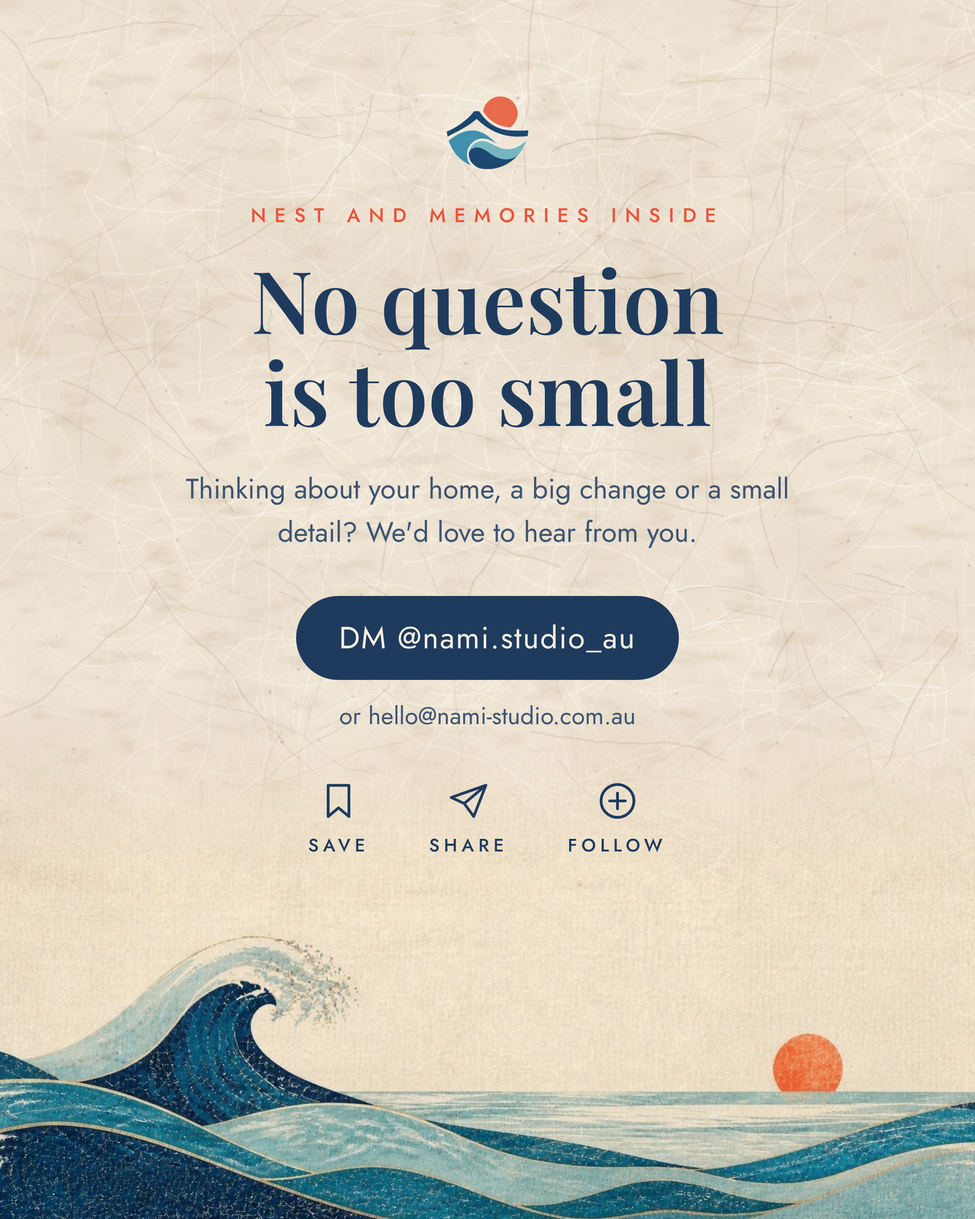
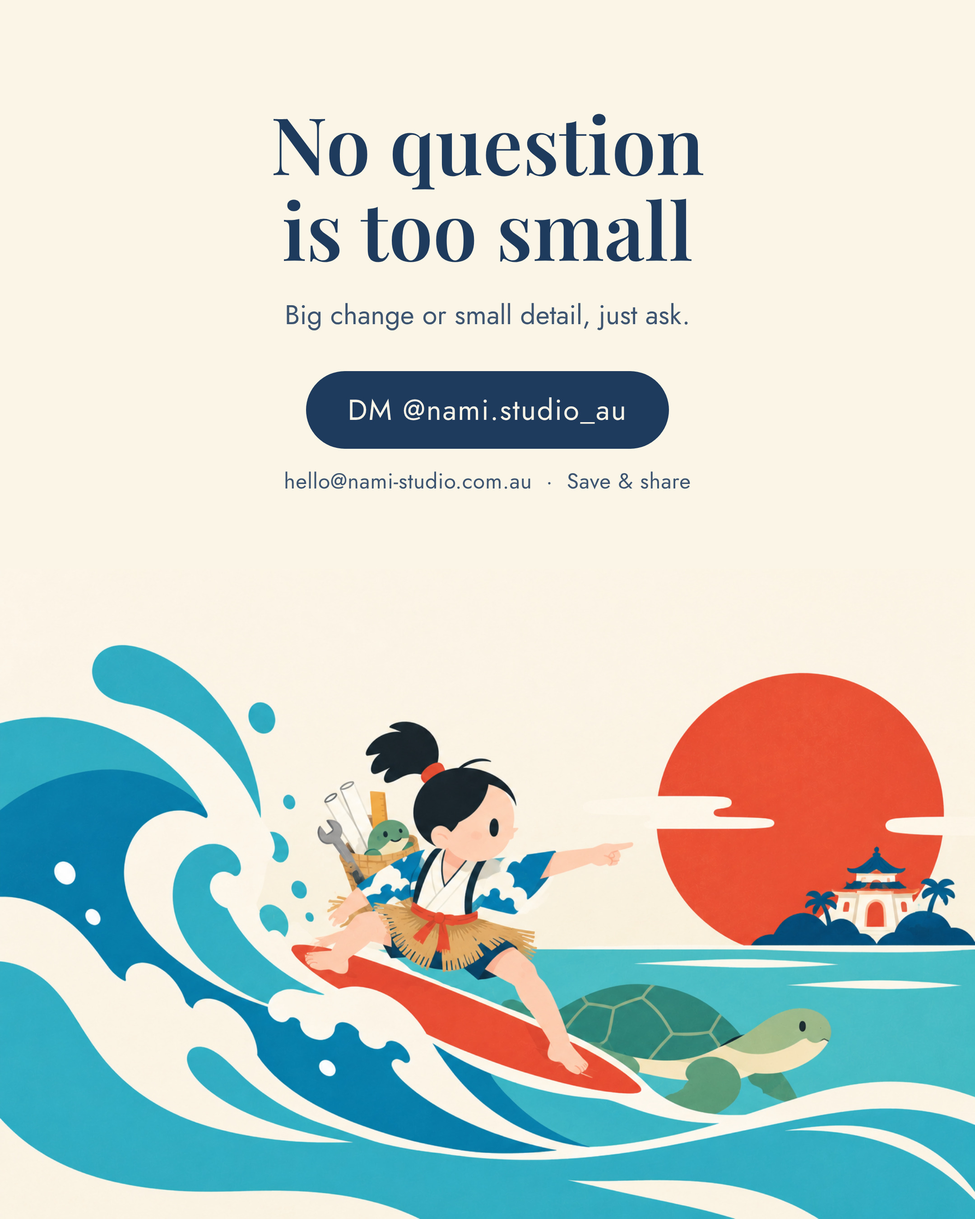
Instagram closing slide: simpler layout with the NAMI surfer illustration
Claude-Session: https://claude.ai/code/session_018kEBoUjPf4arsee4JEG76P

diff --git a/nami-website/design/instagram/last/make-last.py b/nami-website/design/instagram/last/make-last.py
@@ -1,33 +1,18 @@
 R="/home/user/-/nami-website"
-W=f"{R}/design/instagram/washi-paper.jpg"
-P=f"{R}/public/images/washi/wave-sun.jpg"
-E=f"{R}/public/images/logo/nami-emblem.png"
-# Instagram icons, drawn as simple outlines so they read as the real buttons
-BOOK='<svg viewBox="0 0 24 24"><path d="M6 3h12v18l-6-5-6 5z"/></svg>'
-SEND='<svg viewBox="0 0 24 24"><path d="M22 3 9.5 13.5M22 3l-7 18-5.5-7.5L2 10z"/></svg>'
-PLUS='<svg viewBox="0 0 24 24"><circle cx="12" cy="12" r="9.5"/><path d="M12 7.5v9M7.5 12h9"/></svg>'
+I=f"{R}/design/instagram/last/surfer.png"
 open("final_last.html","w").write(f'''<!doctype html><html><head><meta charset=utf-8>
 <link href="https://fonts.googleapis.com/css2?family=Playfair+Display:wght@600&family=Jost:wght@400;500&display=block" rel="stylesheet"><style>
 *{{margin:0;padding:0;box-sizing:border-box}}body{{width:1080px;height:1350px;color:#1e3a5c;font-family:Jost,sans-serif}}
-.s{{width:1080px;height:1350px;position:relative;overflow:hidden;background:#efe6d6 url(file://{W}) center/cover}}
-.print{{position:absolute;left:0;right:0;bottom:0;height:560px;background:url(file://{P}) center 62%/cover;
-  -webkit-mask-image:linear-gradient(to bottom,transparent 0,#000 34%);mask-image:linear-gradient(to bottom,transparent 0,#000 34%)}}
-.top{{position:absolute;top:96px;left:0;right:0;text-align:center}}
-.em{{width:92px;height:92px;display:block;margin:0 auto 34px}}
-.k{{font-weight:500;font-size:22px;letter-spacing:.42em;color:#e8553b;margin-bottom:26px}}
-h1{{font-family:'Playfair Display';font-weight:600;font-size:96px;line-height:1.06}}
-.lead{{font-size:31px;line-height:1.55;margin:34px auto 0;color:#3d5570;max-width:760px}}
-.dm{{display:inline-block;margin-top:46px;background:#1e3a5c;color:#f6efe2;font-size:34px;letter-spacing:.04em;padding:22px 48px;border-radius:999px}}
-.mail{{margin-top:20px;font-size:27px;color:#3d5570}}
-.acts{{display:flex;justify-content:center;gap:66px;margin-top:52px}}
-.a{{display:flex;flex-direction:column;align-items:center;gap:12px;font-size:20px;font-weight:500;letter-spacing:.24em}}
-.a svg{{width:46px;height:46px;fill:none;stroke:#1e3a5c;stroke-width:1.6;stroke-linejoin:round;stroke-linecap:round}}
-</style></head><body><div class="s"><div class="print"></div><div class="top">
-<img class="em" src="file://{E}">
-<div class="k">NEST AND MEMORIES INSIDE</div>
+.s{{width:1080px;height:1350px;position:relative;overflow:hidden;background:#fbf5e8}}
+.ill{{position:absolute;left:0;bottom:0;width:1080px;height:720px;background:url(file://{I}) center/cover}}
+.top{{position:absolute;top:110px;left:0;right:0;text-align:center}}
+h1{{font-family:'Playfair Display';font-weight:600;font-size:88px;line-height:1.08}}
+.lead{{font-size:30px;line-height:1.5;margin-top:26px;color:#3d5570}}
+.dm{{display:inline-block;margin-top:40px;background:#1e3a5c;color:#fbf5e8;font-size:32px;letter-spacing:.04em;padding:20px 46px;border-radius:999px}}
+.sub{{margin-top:18px;font-size:24px;color:#3d5570;letter-spacing:.02em}}
+</style></head><body><div class="s"><div class="ill"></div><div class="top">
 <h1>No question<br>is too small</h1>
-<p class="lead">Thinking about your home, a big change or a small detail? We'd love to hear from you.</p>
+<p class="lead">Big change or small detail, just ask.</p>
 <div class="dm">DM @nami.studio_au</div>
-<div class="mail">or hello@nami-studio.com.au</div>
-<div class="acts"><div class="a">{BOOK}SAVE</div><div class="a">{SEND}SHARE</div><div class="a">{PLUS}FOLLOW</div></div>
+<div class="sub">hello@nami-studio.com.au &nbsp;·&nbsp; Save &amp; share</div>
 </div></div></body></html>''')
